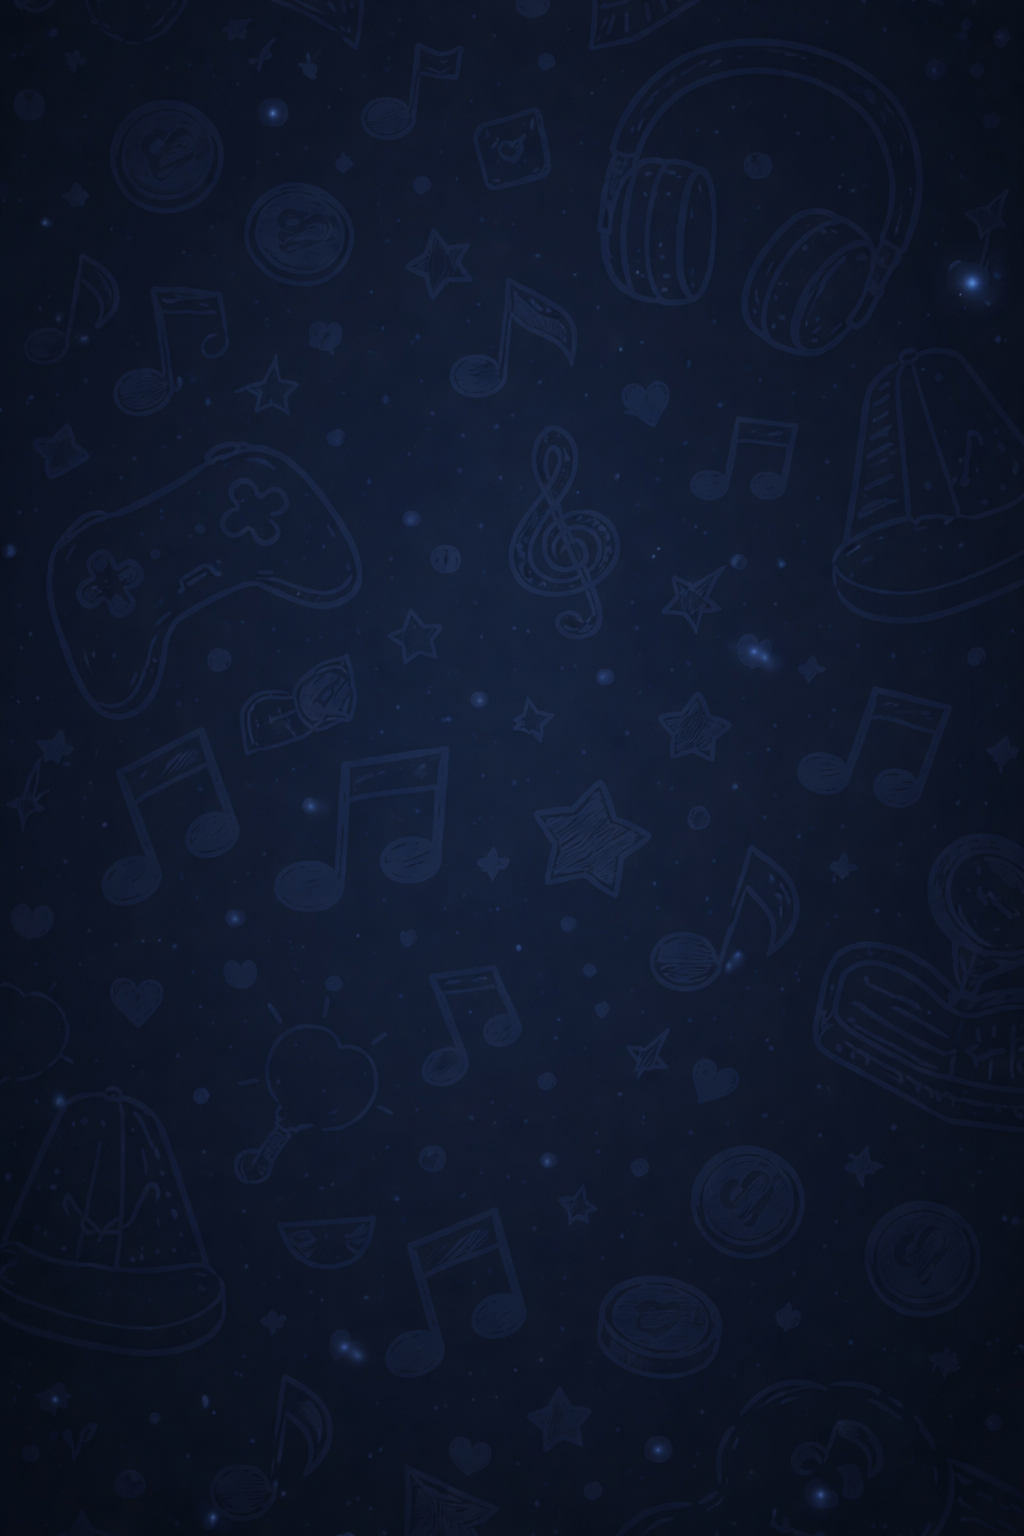
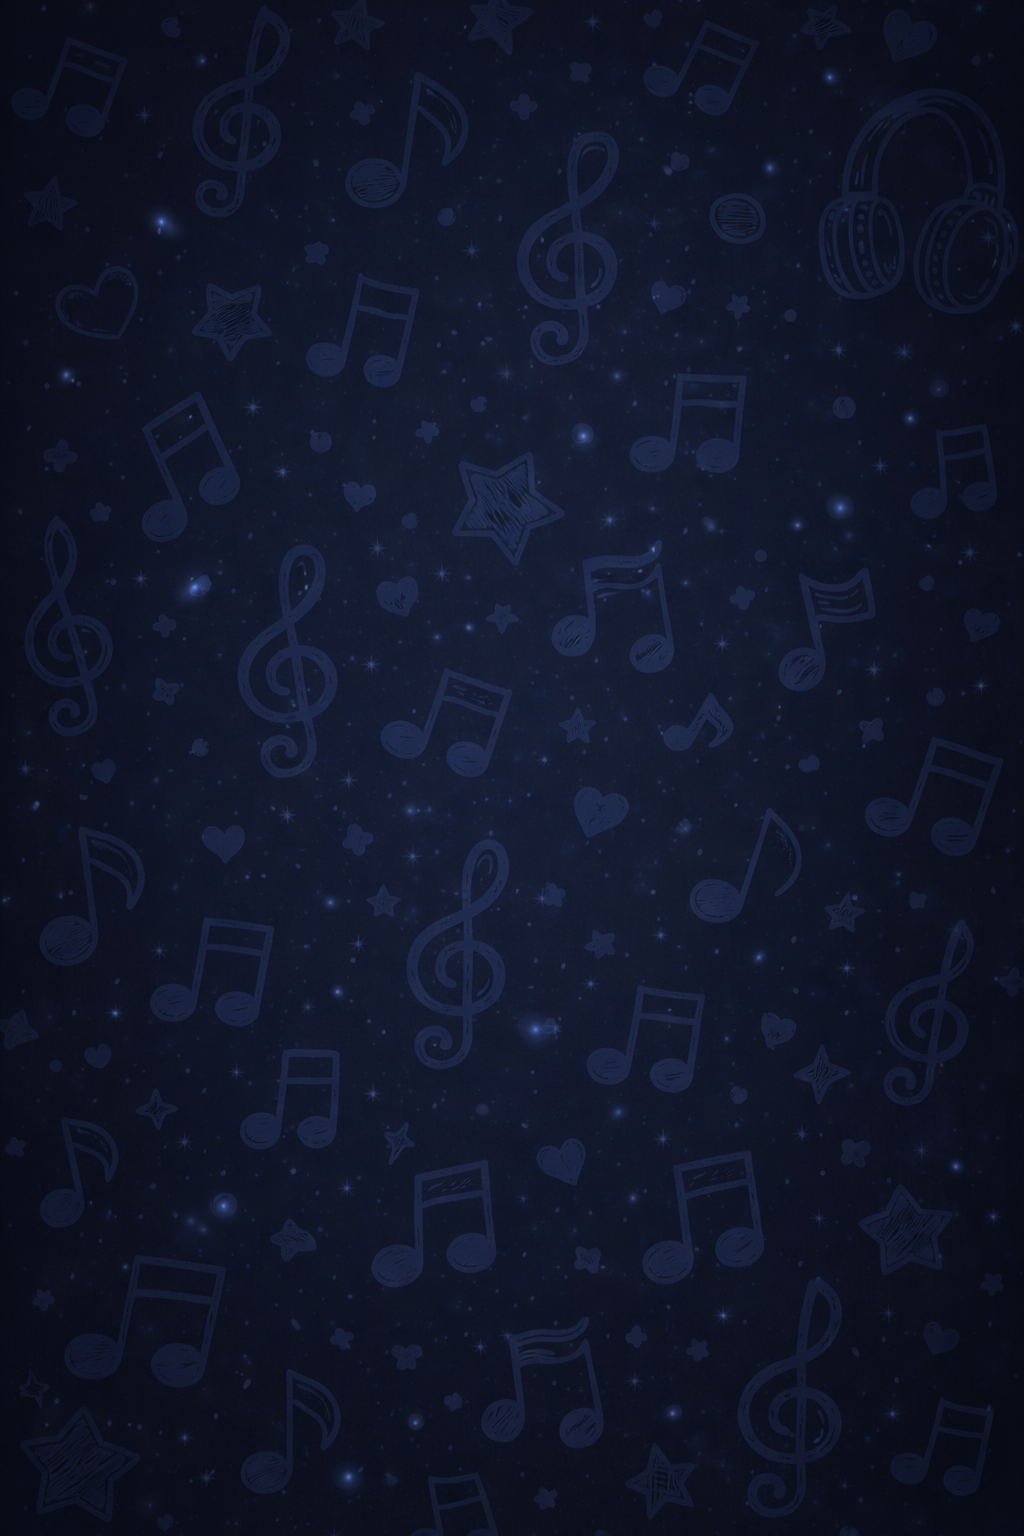
feat: Improve game over screen

diff --git a/src/screens/GameScreen.js b/src/screens/GameScreen.js
@@ -1,6 +1,8 @@
-import React, { useEffect, useState } from 'react';
-import { View, Text, StatusBar, StyleSheet, TouchableOpacity, Image, Modal, ImageBackground } from 'react-native';
+import React, { useEffect, useState, useRef } from 'react';
+import { View, Text, StatusBar, StyleSheet, TouchableOpacity, Image, Modal, ImageBackground, Linking, Alert, Platform } from 'react-native';
 import { SafeAreaView } from 'react-native-safe-area-context';
+import * as Sharing from 'expo-sharing';
+import { captureRef } from 'react-native-view-shot';
 import { useFonts, Inter_400Regular, Inter_600SemiBold, Inter_700Bold } from '@expo-google-fonts/inter';
 import { PressStart2P_400Regular } from '@expo-google-fonts/press-start-2p';
 
@@ -34,6 +36,8 @@ export default function GameScreen() {
   });
 
   const [showRestartModal, setShowRestartModal] = useState(false);
+  const [isCapturing, setIsCapturing] = useState(false);
+  const gameOverRef = useRef();
 
   // Game State
   const {
@@ -182,23 +186,110 @@ export default function GameScreen() {
     );
   }
 
+  // Share functionality
+  const handleShare = async () => {
+    try {
+      setIsCapturing(true);
+      
+      // Wait for UI to update (hide buttons)
+      await new Promise(resolve => setTimeout(resolve, 100));
+      
+      const uri = await captureRef(gameOverRef, {
+        format: 'png',
+        quality: 1,
+      });
+      
+      setIsCapturing(false);
+      
+      const isAvailable = await Sharing.isAvailableAsync();
+      
+      if (isAvailable) {
+        await Sharing.shareAsync(uri, {
+          mimeType: 'image/png',
+          dialogTitle: 'Compartilhar resultado',
+        });
+      } else {
+        Alert.alert('Erro', 'Compartilhamento não disponível neste dispositivo');
+      }
+    } catch (error) {
+      setIsCapturing(false);
+      console.error('Erro ao compartilhar:', error);
+      Alert.alert('Erro', 'Não foi possível compartilhar');
+    }
+  };
+
   // Game over state
   if (gameOver) {
     return (
-      <SafeAreaView style={[styles.container, { backgroundColor: getBackgroundColorByLevel(1) }]}>
-        <StatusBar barStyle="light-content" />
-        <View style={styles.gameOverContainer}>
-          <Text style={styles.gameOverTitle}>Game Over</Text>
-          <Text style={styles.finalScore}>Pontuação Final: {score}</Text>
-          <TouchableOpacity style={styles.restartButton} onPress={handleRestart}>
-            <Image 
-              source={require('../../assets/Command-Reset-256.png')} 
-              style={styles.restartButtonIcon}
-            />
-            <Text style={styles.buttonText}>Recomeçar</Text>
-          </TouchableOpacity>
-        </View>
-      </SafeAreaView>
+      <ImageBackground 
+        source={require('../../assets/background-gameover.png')} 
+        style={styles.backgroundImage}
+        resizeMode="cover"
+      >
+        <SafeAreaView style={styles.gameOverSafeArea}>
+          <StatusBar barStyle="light-content" />
+          
+          <View 
+            ref={gameOverRef} 
+            style={styles.gameOverCapture}
+            collapsable={false}
+          >
+            <ImageBackground 
+              source={require('../../assets/background-gameover.png')} 
+              style={styles.captureBackground}
+              resizeMode="cover"
+            >
+              <View style={styles.gameOverContent}>
+                <View style={styles.gameOverHeader}>
+                  <Image 
+                    source={require('../../assets/icon.png')} 
+                    style={styles.gameOverIcon}
+                  />
+                  <Text style={styles.gameOverTitle}>GAME OVER</Text>
+                </View>
+                
+                <View style={styles.scoreCard}>
+                  <Text style={styles.scoreLabel}>PONTUAÇÃO</Text>
+                  <Text style={styles.scoreValue}>{score}</Text>
+                  <View style={styles.statsRow}>
+                    <View style={styles.statItem}>
+                      <Text style={styles.statEmoji}>🏆</Text>
+                      <Text style={styles.statText}>Level {level}</Text>
+                    </View>
+                  </View>
+                </View>
+                
+                <View style={styles.brandingContainer}>
+                  <Text style={styles.brandingText}> Ear Training Game</Text>
+                  <Text style={styles.brandingSubtext}>Treine seu ouvido musical!</Text>
+                </View>
+              </View>
+            </ImageBackground>
+          </View>
+          
+          {!isCapturing && (
+            <View style={styles.gameOverActions}>
+              <View style={styles.actionButtonsRow}>
+                <TouchableOpacity style={styles.shareButtonSingle} onPress={() => handleShare()}>
+                  <Image 
+                    source={require('../../assets/Share-06-WF-256.png')} 
+                    style={styles.shareIconImage}
+                  />
+                  <Text style={styles.shareButtonSingleText}>Compartilhar</Text>
+                </TouchableOpacity>
+                
+                <TouchableOpacity style={styles.restartButtonGameOver} onPress={handleRestart}>
+                  <Image 
+                    source={require('../../assets/Command-Reset-256.png')} 
+                    style={styles.restartButtonIcon}
+                  />
+                  <Text style={styles.buttonText}>Jogar Novamente</Text>
+                </TouchableOpacity>
+              </View>
+            </View>
+          )}
+        </SafeAreaView>
+      </ImageBackground>
     );
   }
 
@@ -357,16 +448,152 @@ const styles = StyleSheet.create({
     textAlign: 'center',
     lineHeight: 20,
   },
+  gameOverSafeArea: {
+    flex: 1,
+  },
+  gameOverCapture: {
+    flex: 1,
+    maxHeight: '65%',
+  },
+  captureBackground: {
+    flex: 1,
+    width: '100%',
+  },
+  gameOverContent: {
+    flex: 1,
+    justifyContent: 'center',
+    alignItems: 'center',
+    paddingHorizontal: SPACING.lg,
+  },
+  gameOverHeader: {
+    alignItems: 'center',
+    marginBottom: SPACING.xl,
+  },
+  gameOverIcon: {
+    width: 80,
+    height: 80,
+    marginBottom: SPACING.sm,
+    borderRadius: 16,
+  },
+  gameOverTitle: {
+    color: '#FFFFFF',
+    fontSize: 28,
+    fontFamily: 'PressStart2P_400Regular',
+    textShadowColor: 'rgba(0, 0, 0, 0.8)',
+    textShadowOffset: { width: 2, height: 2 },
+    textShadowRadius: 10,
+    letterSpacing: 2,
+  },
+  scoreCard: {
+    backgroundColor: 'rgba(0, 0, 0, 0.5)',
+    borderRadius: BORDER_RADIUS.lg,
+    paddingVertical: SPACING.xl,
+    paddingHorizontal: SPACING.xxl + 10,
+    alignItems: 'center',
+    borderWidth: 2,
+    borderColor: 'rgba(255, 255, 255, 0.2)',
+    marginBottom: SPACING.xl,
+  },
+  scoreLabel: {
+    color: 'rgba(255, 255, 255, 0.7)',
+    fontSize: FONT_SIZES.sm,
+    fontFamily: FONTS.semiBold,
+    letterSpacing: 3,
+    marginBottom: SPACING.xs,
+  },
+  scoreValue: {
+    color: '#FFD700',
+    fontSize: 72,
+    fontFamily: FONTS.bold,
+    textShadowColor: 'rgba(255, 215, 0, 0.5)',
+    textShadowOffset: { width: 0, height: 0 },
+    textShadowRadius: 20,
+  },
+  statsRow: {
+    flexDirection: 'row',
+    marginTop: SPACING.md,
+    gap: SPACING.lg,
+  },
+  statItem: {
+    flexDirection: 'row',
+    alignItems: 'center',
+    gap: SPACING.xs,
+  },
+  statEmoji: {
+    fontSize: 20,
+  },
+  statText: {
+    color: 'rgba(255, 255, 255, 0.9)',
+    fontSize: FONT_SIZES.md,
+    fontFamily: FONTS.semiBold,
+  },
+  brandingContainer: {
+    alignItems: 'center',
+    marginTop: SPACING.lg,
+  },
+  brandingText: {
+    color: 'rgba(255, 255, 255, 0.9)',
+    fontSize: 12,
+    fontFamily: 'PressStart2P_400Regular',
+  },
+  brandingSubtext: {
+    color: 'rgba(255, 255, 255, 0.6)',
+    fontSize: FONT_SIZES.sm,
+    fontFamily: FONTS.regular,
+    marginTop: SPACING.xs,
+  },
+  gameOverActions: {
+    paddingHorizontal: SPACING.lg,
+    paddingVertical: SPACING.lg,
+    alignItems: 'center',
+  },
+  actionButtonsRow: {
+    flexDirection: 'row',
+    gap: SPACING.md,
+    alignItems: 'center',
+  },
+  shareButtonSingle: {
+    backgroundColor: '#6366F1',
+    paddingHorizontal: SPACING.md,
+    paddingVertical: SPACING.sm,
+    borderRadius: BORDER_RADIUS.md,
+    flexDirection: 'row',
+    alignItems: 'center',
+    gap: 6,
+    shadowColor: '#6366F1',
+    shadowOffset: { width: 0, height: 4 },
+    shadowOpacity: 0.4,
+    shadowRadius: 8,
+    elevation: 8,
+  },
+  shareIconImage: {
+    width: 20,
+    height: 20,
+    tintColor: '#FFFFFF',
+  },
+  shareButtonSingleText: {
+    color: '#FFFFFF',
+    fontSize: FONT_SIZES.sm,
+    fontFamily: FONTS.semiBold,
+  },
+  restartButtonGameOver: {
+    backgroundColor: COLORS.success,
+    paddingHorizontal: SPACING.md,
+    paddingVertical: SPACING.sm,
+    borderRadius: BORDER_RADIUS.md,
+    flexDirection: 'row',
+    alignItems: 'center',
+    gap: 6,
+    shadowColor: COLORS.success,
+    shadowOffset: { width: 0, height: 4 },
+    shadowOpacity: 0.4,
+    shadowRadius: 8,
+    elevation: 8,
+  },
   gameOverContainer: {
     flex: 1,
     justifyContent: 'center',
     alignItems: 'center',
-  },
-  gameOverTitle: {
-    color: COLORS.error,
-    fontSize: FONT_SIZES.huge,
-    fontFamily: FONTS.bold,
-    marginBottom: SPACING.lg,
   },
   finalScore: {
     color: COLORS.text.primary,
@@ -389,13 +616,13 @@ const styles = StyleSheet.create({
     elevation: 8,
   },
   restartButtonIcon: {
-    width: 32,
-    height: 32,
+    width: 24,
+    height: 24,
     tintColor: COLORS.text.primary,
   },
   buttonText: {
     color: COLORS.text.primary,
-    fontSize: FONT_SIZES.md,
+    fontSize: FONT_SIZES.sm,
     fontFamily: FONTS.semiBold,
   },
   modalOverlay: {

diff --git a/app.config.js b/app.config.js
@@ -21,7 +21,7 @@ export default {
     },
     android: {
       adaptiveIcon: {
-        foregroundImage: "./assets/adaptive-icon.png",
+        foregroundImage: "./assets/icon.png",
         backgroundColor: "#1a1a2e"
       },
       package: "com.WillsTavares.eartraininggame"